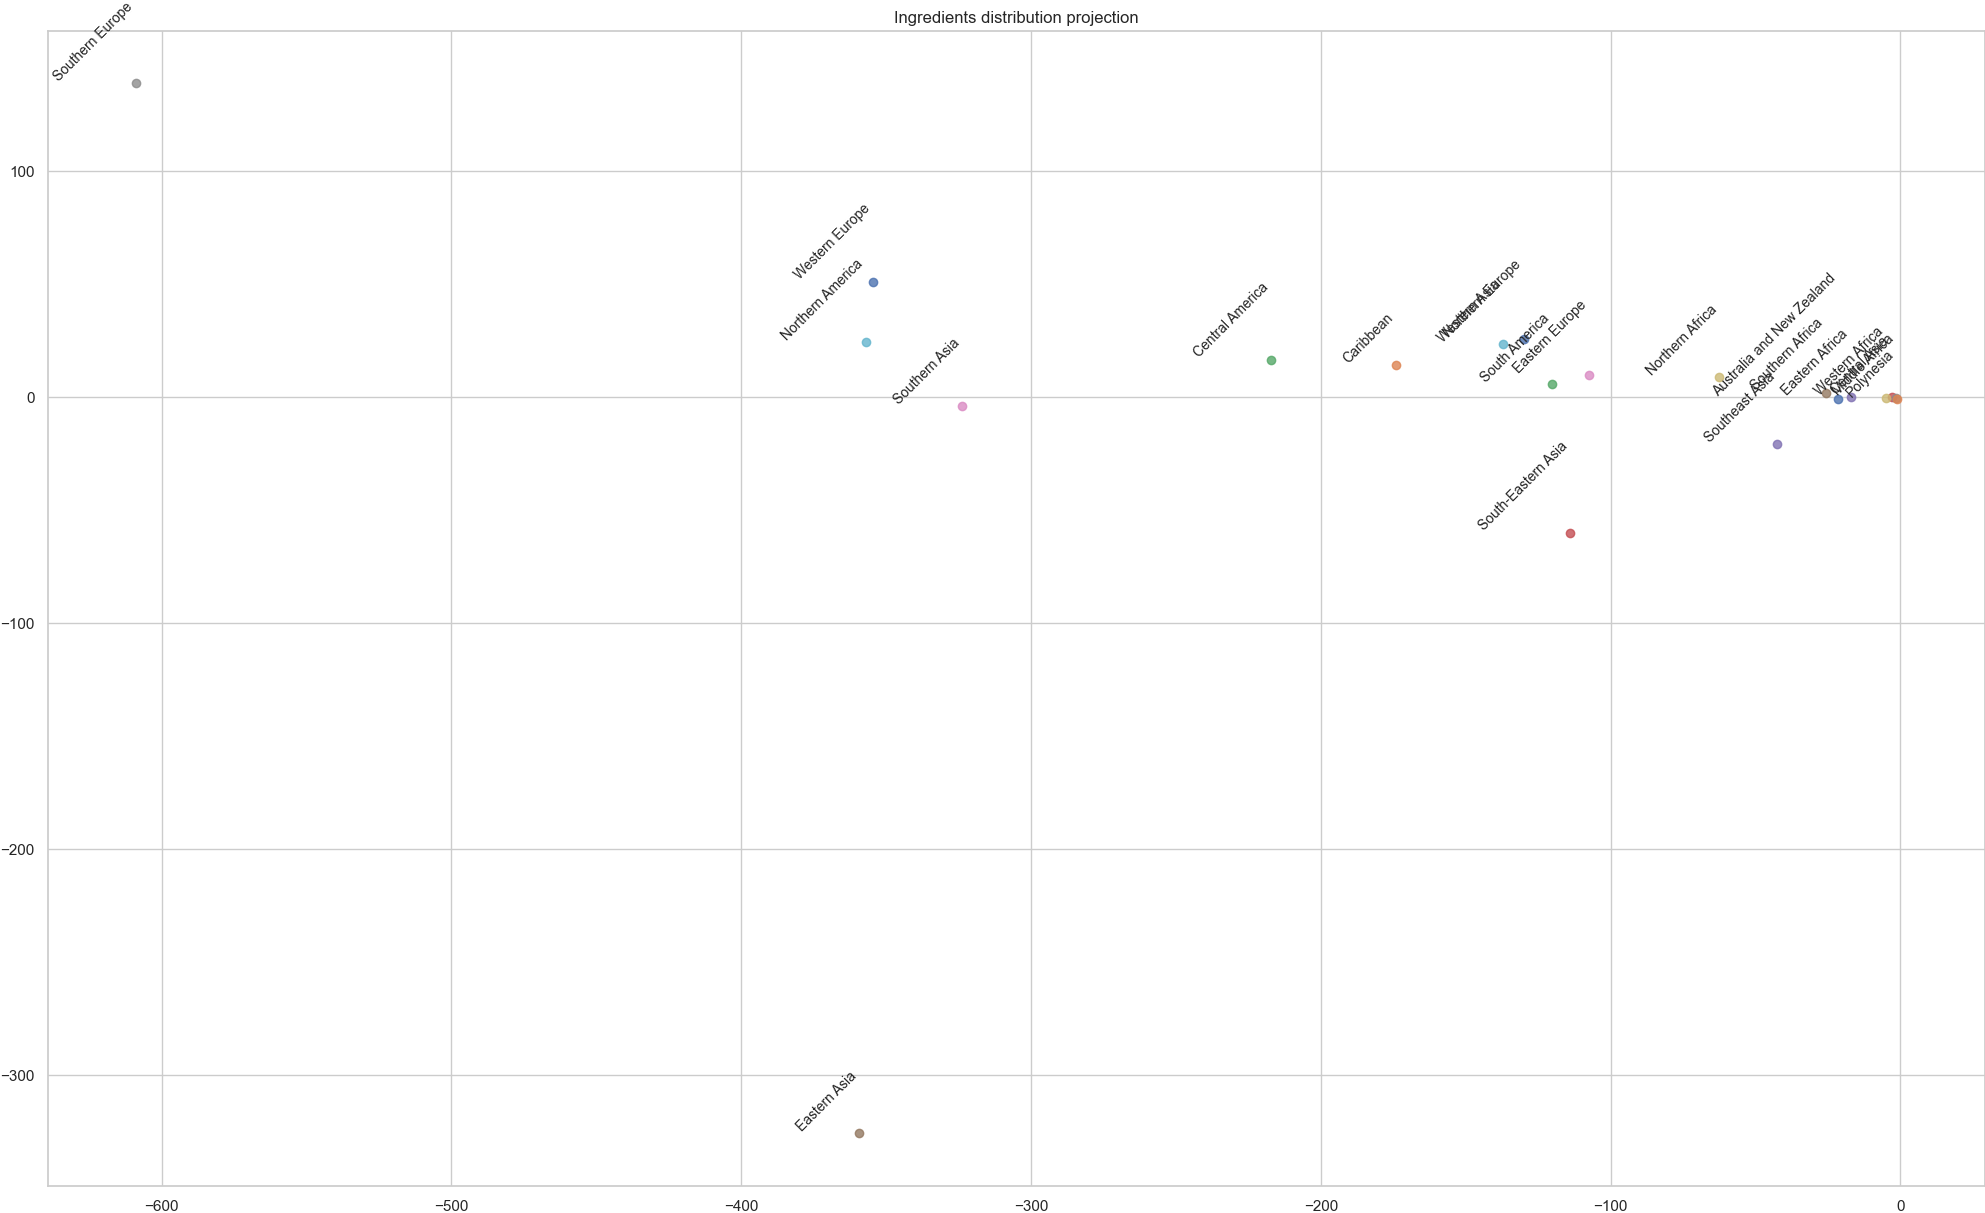
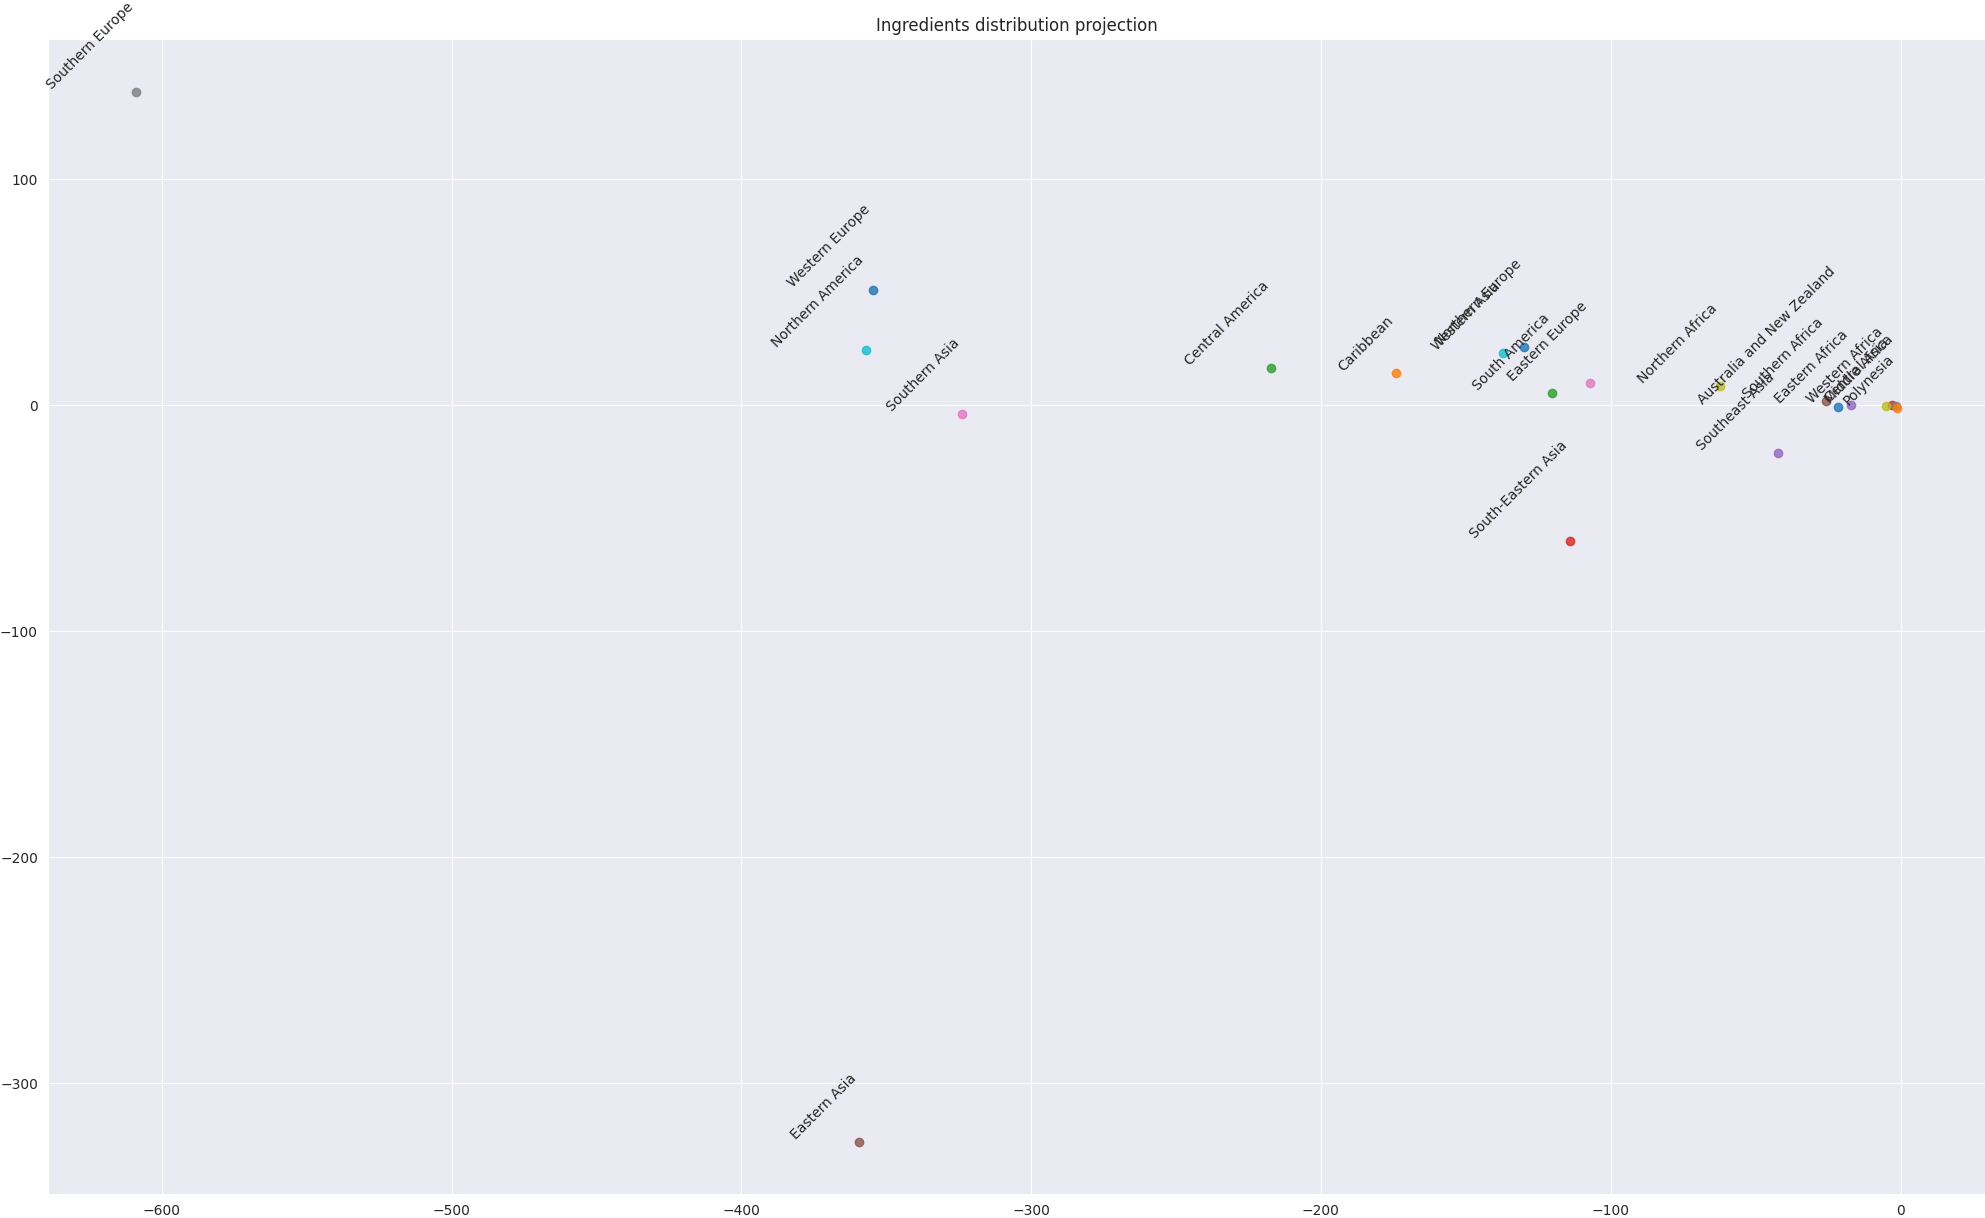
update idea 0 and 1

diff --git a/idea/idea1.py b/idea/idea1.py
@@ -1,0 +1,135 @@
+import pandas as pd
+import numpy as np
+import matplotlib.pyplot as plt
+import seaborn as sns
+sns.set_style("darkgrid")
+from wordcloud import WordCloud
+
+df = pd.read_csv('data/cleaned_recipes_v2.csv',index_col=0)
+
+# clean data
+for i in range(len(df)):
+    df['ingredients'][i] = df['ingredients'][i].replace('[','').replace(']','').replace("'",'').replace("",'').replace('"','').split(',')
+
+for i in range(len(df)):
+    df['ingredients'][i] = [x.strip() for x in df['ingredients'][i]]
+    df['ingredients'][i] = [x.replace(' ','_') for x in df['ingredients'][i]]
+
+# Collect all unique ingredients
+ingredients_set = set()
+
+for i in range(len(df)):
+    for ingredient in df['ingredients'][i]:
+        ingredients_set.add(ingredient)
+
+
+wordcloud = WordCloud(width = 800, height = 800, 
+                background_color ='black', 
+                stopwords = None, 
+                min_font_size = 10).generate(' '.join(ingredients_set))
+
+plt.figure(figsize = (8, 8), facecolor = None)
+plt.imshow(wordcloud)
+plt.axis("off")
+plt.tight_layout(pad = 0)
+plt.savefig("assets/wordcloud.png")
+
+
+countries = np.unique(df['sub_region'])
+
+c_dict = dict()
+for i in countries:
+    c_dict[i] = dict()
+    for j in ingredients_set:
+        c_dict[i][j] = 0
+
+for i in range(len(df['sub_region'])):
+    ing = df['ingredients'][i]
+    print(df['sub_region'][i])
+    for j in ingredients_set:
+        if j in ing:
+            # print(j)
+            c_dict[df['sub_region'][i]][j] += 1
+
+c_l = dict()
+for i in countries:
+    c_l[i] = []
+
+for i in range(len(df)):
+    for j in ing:
+        c_l[df['sub_region'][i]].append(j)
+
+
+plt.figure(figsize=(20, 20))
+for i in range(len(countries)):
+    # wc = WordCloud(width=800, height=800, background_color='black').generate(' '.join(c_l[countries[i]]))
+    wc = WordCloud(width = 800, height = 800, 
+                background_color ='black', 
+                stopwords = None, 
+                min_font_size = 10).generate(' '.join(c_l[countries[i]]))
+    plt.subplot(5, 5, i+1)
+    plt.imshow(wc)
+    plt.title(countries[i])
+    plt.axis('off')
+
+plt.savefig('assets/wordcloud_general.png')
+
+
+
+# PCA
+data = pd.read_json('data/json_data/country_ingredients.json', orient='index')
+data['country'] = data.index
+data = data.reset_index(drop=True)
+
+X = data.drop(['country'], axis=1)
+y = data['country']
+
+X = np.array(X)
+y = np.array(y)
+
+# A réaliser :
+
+# 1) calcul des vecteurs propres
+lam_train, V_train = np.linalg.eig(X.T @ X)
+# lam_test, V_test = np.linalg.eig(XTu.T @ XTu)
+
+# Trouver les indices des deux plus grandes valeurs propres
+largest_indices = np.argsort(lam_train)[::-1][:2]
+
+
+
+# Extraire les deux plus grandes valeurs propres et leurs vecteurs propres correspondants
+largest_eigenvalues = lam_train[largest_indices]
+
+
+max_train = V_train[:, largest_indices]
+# max_test = V_test[:, np.argmax(lam_test)]
+
+
+# 2) affichage (print)
+#print("1er valeur rendue:\n", lam_train)
+#print("2e valeur rendue :\n", V_train)
+
+# 3) tri et sélection des 2 vecteurs associés aux 2 plus grandes valeurs propres 
+#print("Vecteur train :\n", max_train)
+
+
+plt.figure(figsize=(25,15))
+for i in np.unique(y):
+    one_train = X[y == i]
+    #print(one_train)
+
+    projected_data_train = np.dot(one_train, max_train)
+
+    # Scatter plot for the first point in the class
+    plt.scatter(projected_data_train[0, 0], projected_data_train[0, 1], alpha=.8, label=i)
+    
+    # Add text for each point
+    for j in range(projected_data_train.shape[0]):  # Loop through all points in one_train
+        plt.text(projected_data_train[j, 0], projected_data_train[j, 1], str(i), fontsize=10, ha='right', va='bottom',rotation=45)
+
+# ####################################
+# plt.legend()
+plt.title("Ingredients distribution projection")
+plt.savefig("assets/proj_usps_all.png",bbox_inches='tight',pad_inches=0)
+plt.show()
